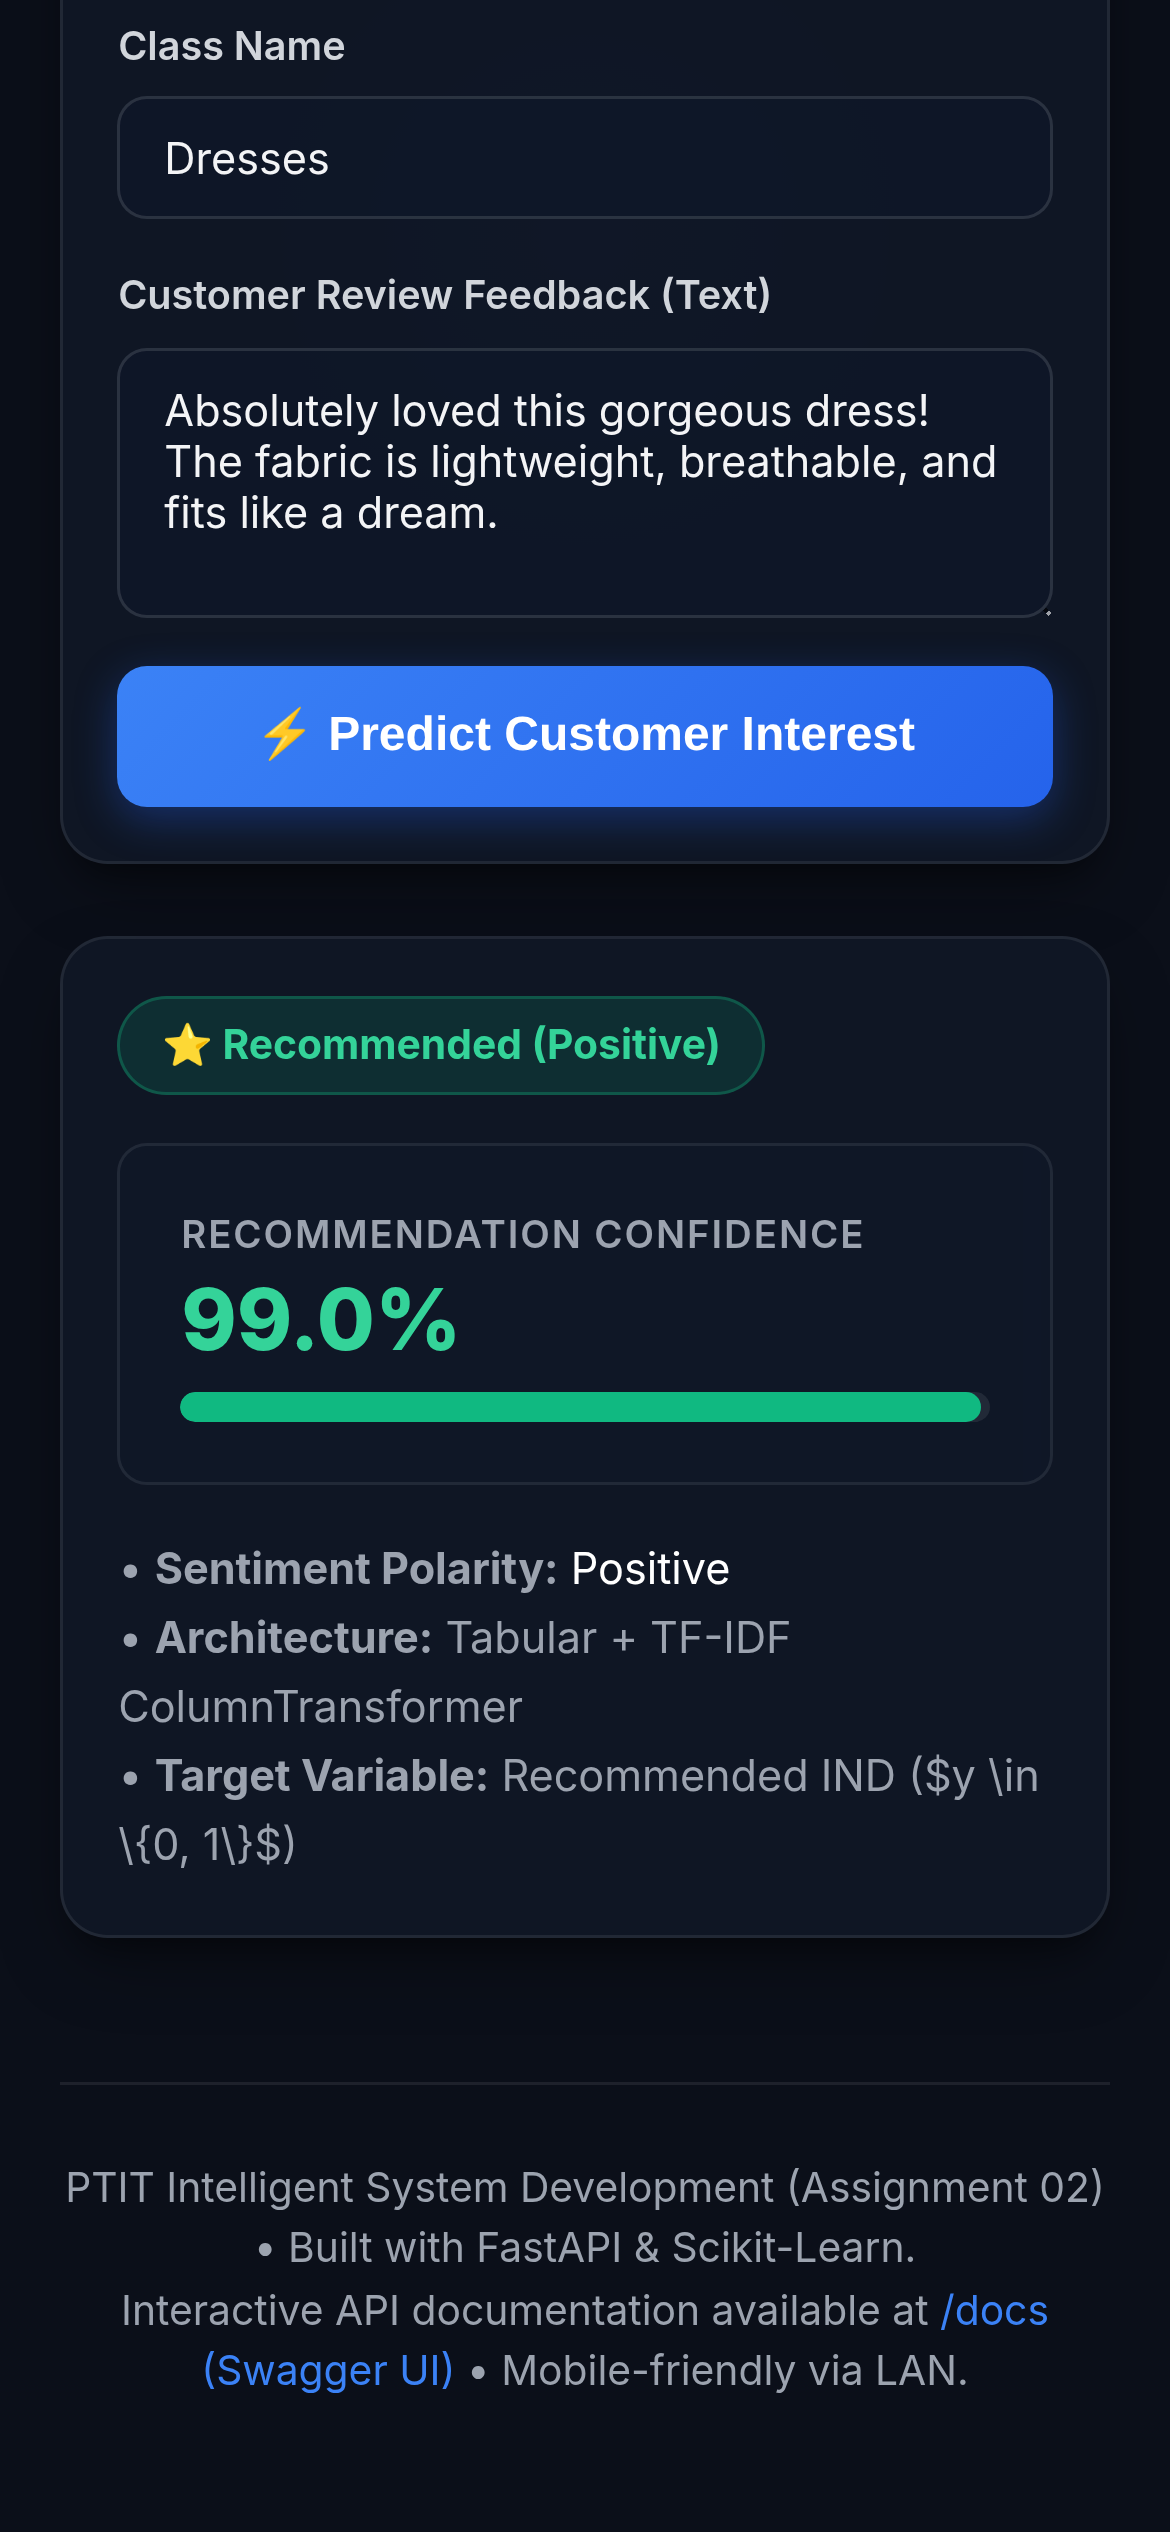
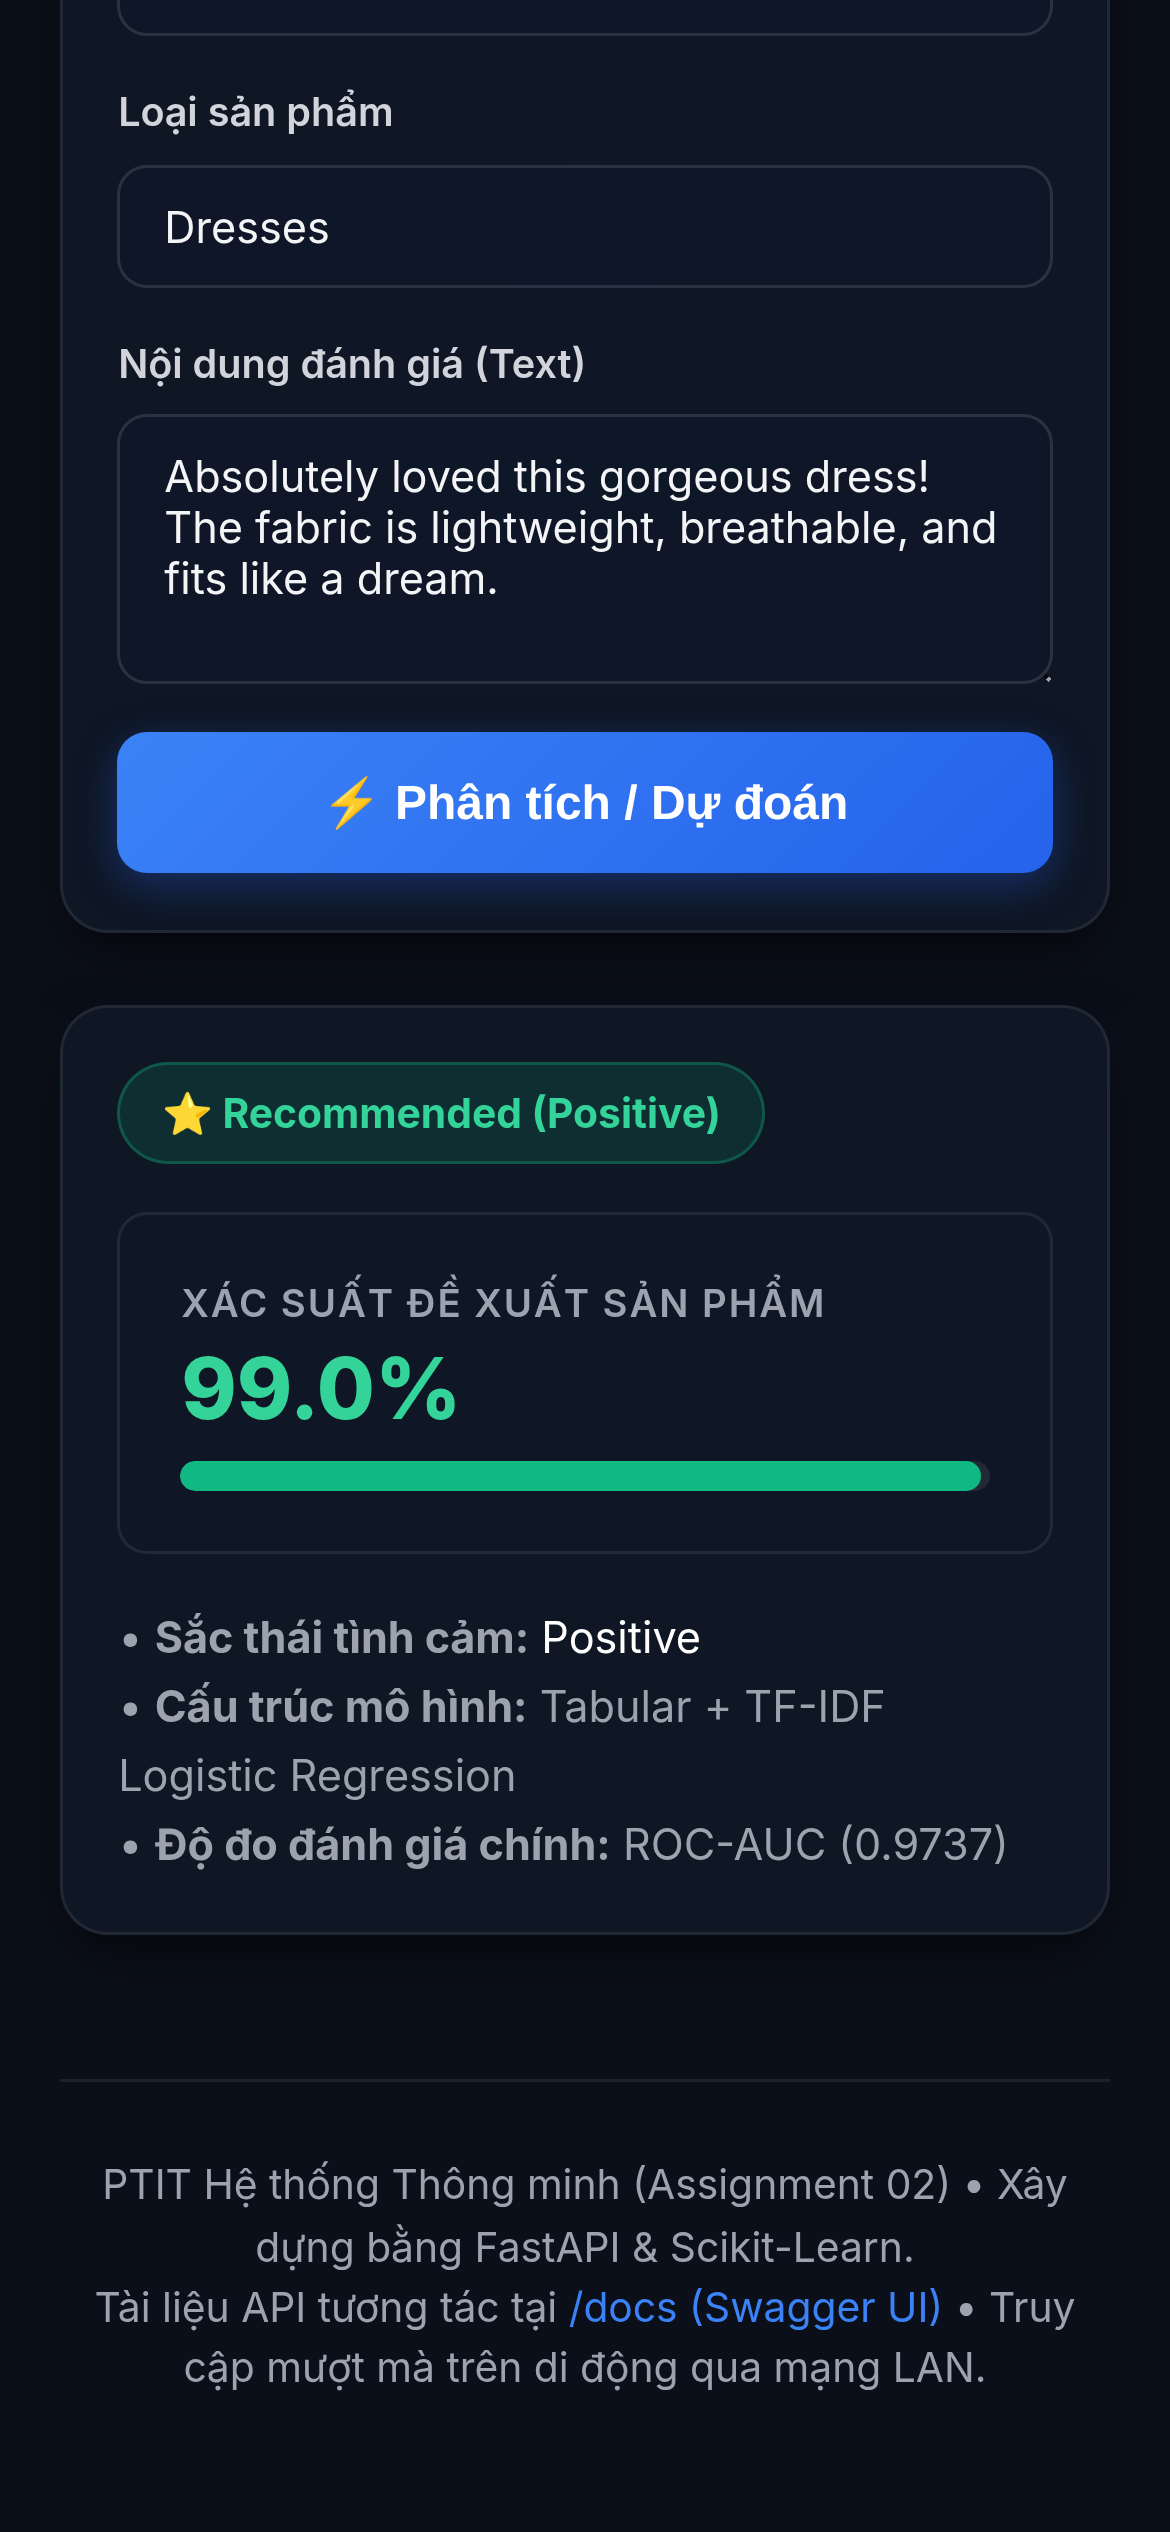
Update docs, fix House Price best model, Vietnamize UI and fix tests

Changed region(s): [[0.0923, 0.0, 0.9231, 0.7488], [0.0615, 0.8424, 0.9231, 0.9672], [0.8615, 0.6864, 0.8923, 0.7176]]

diff --git a/api/test_api.py b/api/test_api.py
@@ -39,7 +39,7 @@ def test_predict_diabetes_high_risk(client):
     assert response.status_code == 200
     data = response.json()
     assert data["prediction"] == 1
-    assert "Diabetic" in data["diagnosis"]
+    assert "mắc bệnh" in data["diagnosis"]
     assert 0.0 <= data["probability"] <= 1.0
 
 
@@ -58,7 +58,7 @@ def test_predict_diabetes_low_risk(client):
     assert response.status_code == 200
     data = response.json()
     assert data["prediction"] == 0
-    assert "Non-Diabetic" in data["diagnosis"]
+    assert "Không thuộc nhóm" in data["diagnosis"]
     assert data["probability"] < 0.5
 
 
@@ -102,7 +102,7 @@ def test_predict_ecommerce_positive(client):
     assert response.status_code == 200
     data = response.json()
     assert data["recommended"] == 1
-    assert "Recommended" in data["recommendation_label"]
+    assert "Khách hàng có khả năng đề xuất sản phẩm" in data["recommendation_label"]
     assert data["confidence"] > 0.5
 
 
@@ -120,5 +120,5 @@ def test_predict_ecommerce_negative(client):
     assert response.status_code == 200
     data = response.json()
     assert data["recommended"] == 0
-    assert "Not Recommended" in data["recommendation_label"]
+    assert "Khách hàng có khả năng không đề xuất sản phẩm" in data["recommendation_label"]
     assert data["confidence"] < 0.5
